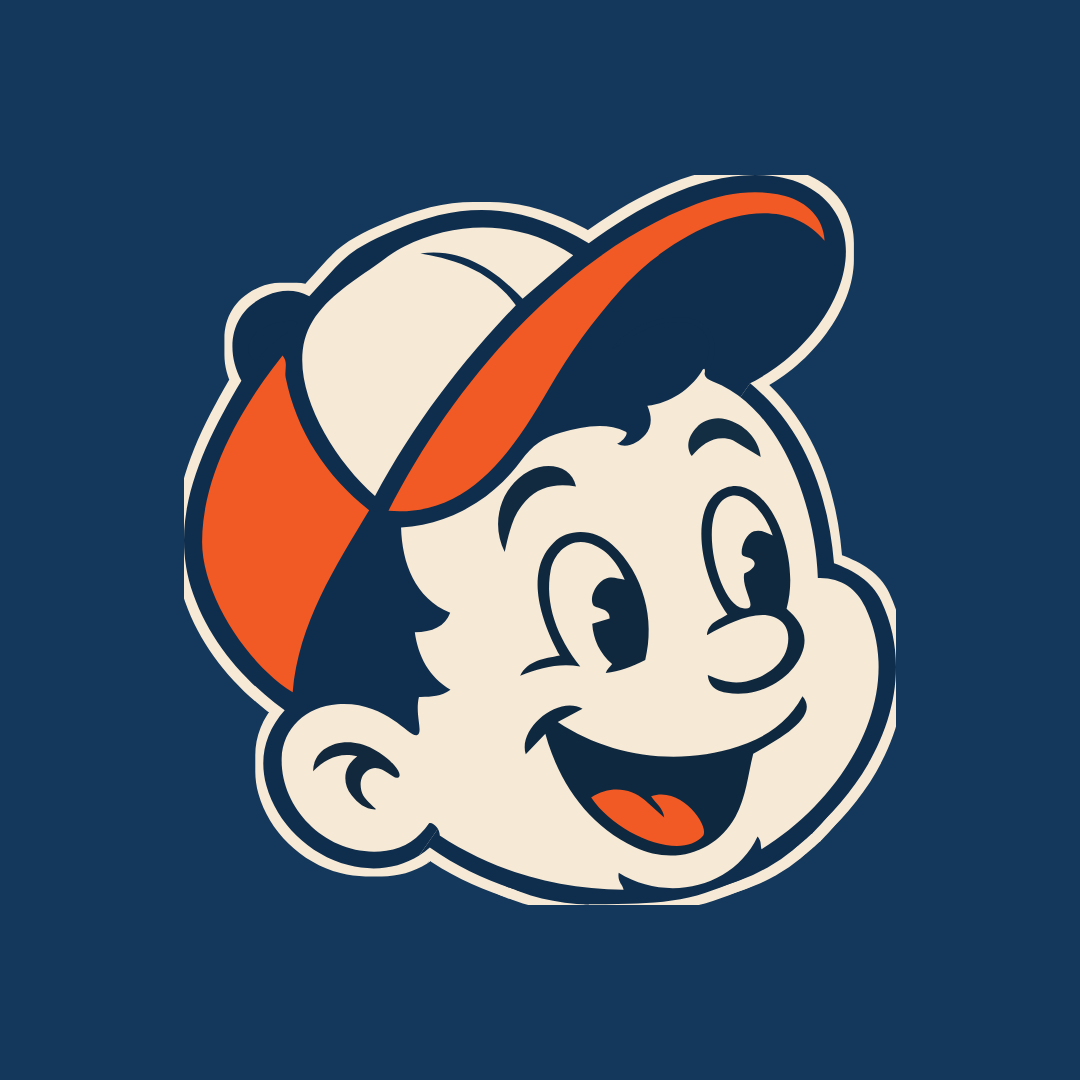
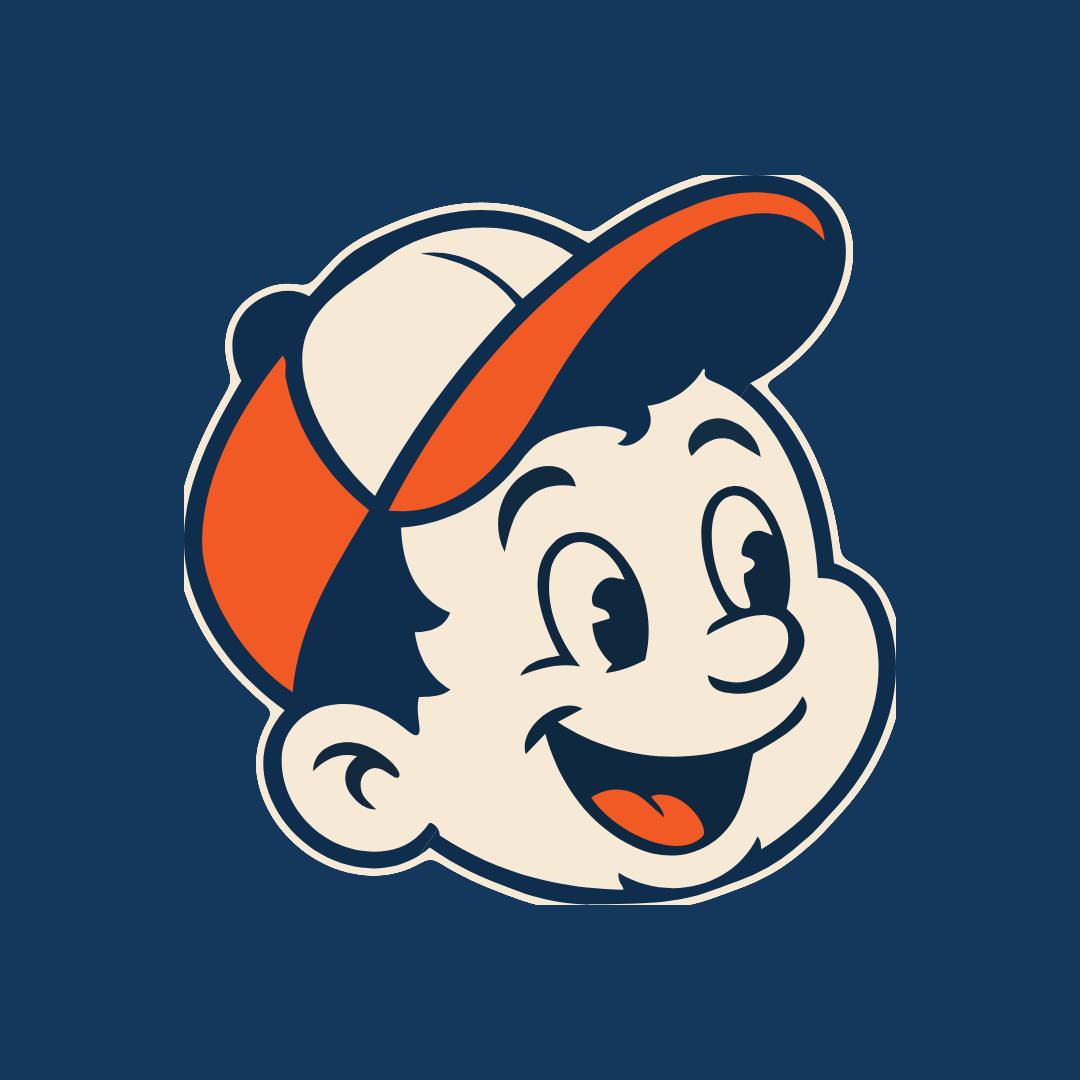
Round the sticker outline; add a one-link download page
Outline
- feMorphology dilate uses a SQUARE kernel, which shaved flat chords
  across every curve of the silhouette — visible on the right cheek,
  under the chin, at the turn of the cap, along the brim and over the
  button. Replaced with blur + a steep alpha ramp: a gaussian spreads
  equally in all directions, so the cut comes out round the whole way
  around, like a real die-cut sticker. Commented in the file so nobody
  swaps it back.
- Regenerated pfp-head-navy.png and icon/apple-icon/logo-icon.

Download page
- public/brand-kit.html: one link showing every profile picture, each
  previewed circle-cropped the way Facebook and Instagram display it,
  with press-and-hold/download instructions. Reaching the other files
  previously meant hand-editing a URL, which is useless on a phone.
- robots.ts disallows it — useful to the owner, not for search.
- Its header sits on white, not navy: the wordmark lettering is navy
  and would vanish, the same problem the cream halo solves for the head.

diff --git a/public/brand-kit.html b/public/brand-kit.html
@@ -1,0 +1,109 @@
+<!doctype html>
+<html lang="en">
+<head>
+<meta charset="utf-8">
+<meta name="viewport" content="width=device-width, initial-scale=1">
+<meta name="robots" content="noindex, nofollow">
+<title>Haul Aboard — Logo Files</title>
+<link rel="preconnect" href="https://fonts.googleapis.com">
+<link rel="preconnect" href="https://fonts.gstatic.com" crossorigin>
+<link href="https://fonts.googleapis.com/css2?family=Anton&family=Barlow+Condensed:wght@500;700&family=Barlow:wght@400;600&display=swap" rel="stylesheet">
+<style>
+  :root{--navy:#14385C;--navy-deep:#0E2A45;--orange:#F36A21;--cream:#F6E9D6;--seafoam:#8FB6B7}
+  *{margin:0;padding:0;box-sizing:border-box}
+  body{background:var(--cream);color:var(--navy);font-family:Barlow,system-ui,sans-serif;
+       -webkit-font-smoothing:antialiased;padding-bottom:60px}
+  header{background:#fff;color:var(--navy);padding:24px 20px 26px;text-align:center;
+         border-bottom:3px solid var(--navy)}
+  header img{height:70px;width:auto;display:block;margin:0 auto 14px}
+  h1{font-family:Anton,Impact,sans-serif;font-size:clamp(28px,7vw,44px);letter-spacing:.01em;
+     text-transform:uppercase;line-height:1;color:var(--navy)}
+  h1 span{color:var(--orange)}
+  .sub{font-family:"Barlow Condensed",sans-serif;font-weight:700;letter-spacing:.18em;
+       text-transform:uppercase;font-size:12px;color:#5C6B72;margin-top:9px}
+  .how{background:var(--orange);color:#fff;padding:16px 20px;text-align:center;
+       font-size:15px;line-height:1.5;font-weight:600}
+  .wrap{max-width:900px;margin:0 auto;padding:0 16px}
+  h2{font-family:Anton,Impact,sans-serif;text-transform:uppercase;font-size:22px;
+     letter-spacing:.02em;margin:34px 0 4px}
+  .note{font-size:14px;color:#5C6B72;line-height:1.5;margin-bottom:16px}
+  .grid{display:grid;grid-template-columns:repeat(auto-fill,minmax(150px,1fr));gap:18px}
+  .card{background:#fff;border:2px solid var(--navy);border-radius:10px;overflow:hidden;
+        box-shadow:3px 3px 0 var(--navy);display:flex;flex-direction:column}
+  .card .shot{display:block;width:100%;aspect-ratio:1;border-radius:50%;}
+  .card .pad{padding:10px;display:flex;flex-direction:column;gap:8px;align-items:center}
+  .card .name{font-family:"Barlow Condensed",sans-serif;font-weight:700;font-size:11.5px;
+              letter-spacing:.08em;text-transform:uppercase;text-align:center;line-height:1.3}
+  .card a.dl{display:block;background:var(--navy);color:#fff;text-decoration:none;text-align:center;
+             font-family:"Barlow Condensed",sans-serif;font-weight:700;font-size:12px;
+             letter-spacing:.12em;text-transform:uppercase;padding:9px 6px;width:100%;border-radius:5px}
+  .best{position:relative}
+  .best::before{content:"PICK ME";position:absolute;z-index:2;top:8px;left:50%;transform:translateX(-50%);
+    background:var(--orange);color:#fff;font-family:"Barlow Condensed",sans-serif;font-weight:700;
+    font-size:10px;letter-spacing:.14em;padding:3px 9px;border-radius:99px}
+  footer{text-align:center;font-size:13px;color:#5C6B72;margin-top:40px;padding:0 20px;line-height:1.6}
+</style>
+</head>
+<body>
+<header>
+  <img src="/images/brand/wordmark.svg" alt="Haul Aboard Junk Removal">
+  <h1>Logo <span>Files</span></h1>
+  <div class="sub">Profile pictures · Facebook &amp; Instagram</div>
+</header>
+
+<div class="how">
+  On your phone: <strong>press and hold</strong> any picture below, then tap
+  <strong>“Add to Photos”</strong> / <strong>“Download image.”</strong><br>
+  On a computer: click the orange <strong>Download</strong> button.
+</div>
+
+<div class="wrap">
+  <h2>Mascot head</h2>
+  <p class="note">Best choice for a profile picture — it’s the only piece of the logo that still
+     reads clearly once Facebook and Instagram shrink it to a small circle.</p>
+  <div class="grid" id="g-head"></div>
+
+  <h2>Head + logo lettering</h2>
+  <p class="note">Use this if you’d rather the company name be readable.</p>
+  <div class="grid" id="g-lockup"></div>
+
+  <h2>Full mascot</h2>
+  <p class="note">The first two are close-ups where he fills the circle. The last two fit
+     the whole rod and hook in, which looks good large but gets small and busy as a profile picture.</p>
+  <div class="grid" id="g-mascot"></div>
+
+  <h2>Full logo</h2>
+  <p class="note">Great for a cover photo or a post. As a profile picture the words
+     “Junk Removal” end up too small to read.</p>
+  <div class="grid" id="g-logo"></div>
+</div>
+
+<footer>
+  Every file is a 1080 × 1080 square with the artwork sized to sit inside the circle
+  Facebook and Instagram crop to — upload them as they are, no cropping needed.<br>
+  The circles above show exactly how each one will look.
+</footer>
+
+<script>
+const B = '/images/brand/social/';
+const sets = {
+  'g-head':   [['pfp-head-navy','Mascot head · navy',1],['pfp-head-cream','Mascot head · cream'],
+               ['pfp-head-orange','Mascot head · orange']],
+  'g-lockup': [['pfp-lockup-cream','Head + name · cream',1],['pfp-lockup-white','Head + name · white']],
+  'g-mascot': [['pfp-mascot-cream','Close-up · cream'],['pfp-mascot-orange','Close-up · orange'],
+               ['pfp-mascot-full-cream','Whole rod · cream'],['pfp-mascot-full-orange','Whole rod · orange']],
+  'g-logo':   [['pfp-logo-cream','Full logo · cream']]
+};
+for (const [id, items] of Object.entries(sets)) {
+  document.getElementById(id).innerHTML = items.map(([file, label, best]) => `
+    <div class="card${best ? ' best' : ''}">
+      <img class="shot" src="${B}${file}.png" alt="${label}">
+      <div class="pad">
+        <div class="name">${label}</div>
+        <a class="dl" href="${B}${file}.png" download>Download</a>
+      </div>
+    </div>`).join('');
+}
+</script>
+</body>
+</html>

diff --git a/src/app/robots.ts b/src/app/robots.ts
@@ -19,7 +19,9 @@ export default function robots(): MetadataRoute.Robots {
       {
         userAgent: "*",
         allow: "/",
-        disallow: ["/api/", "/_next/"],
+        // /brand-kit.html is a private download page for the owner's
+        // logo files — useful, but not something to put in search.
+        disallow: ["/api/", "/_next/", "/brand-kit.html"],
       },
     ],
     sitemap: `${base}/sitemap.xml`,
